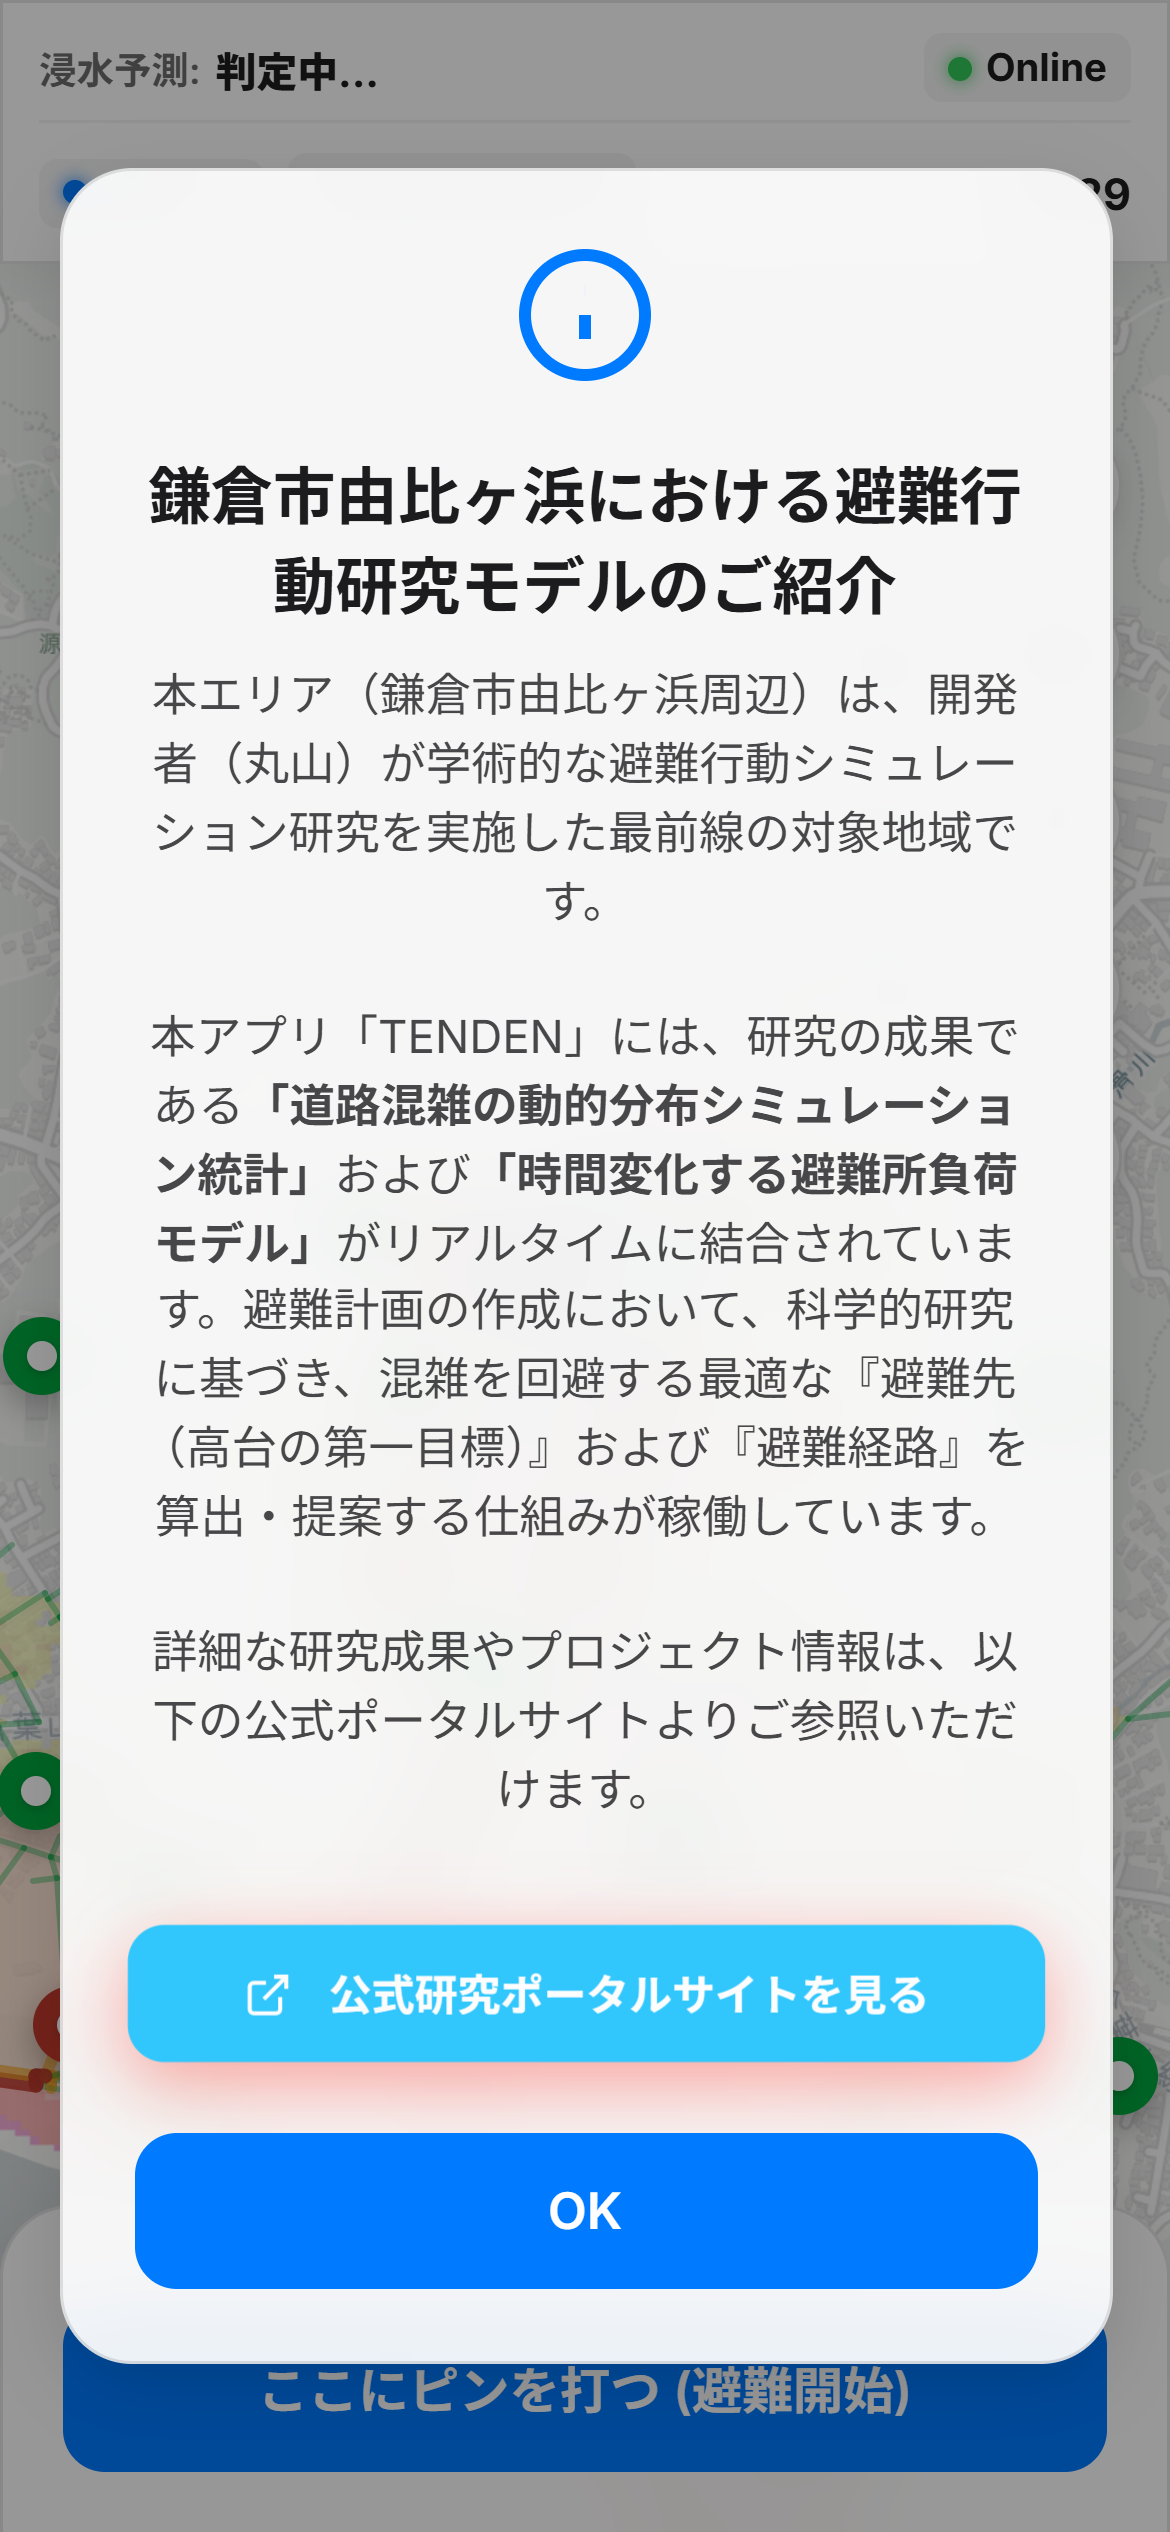
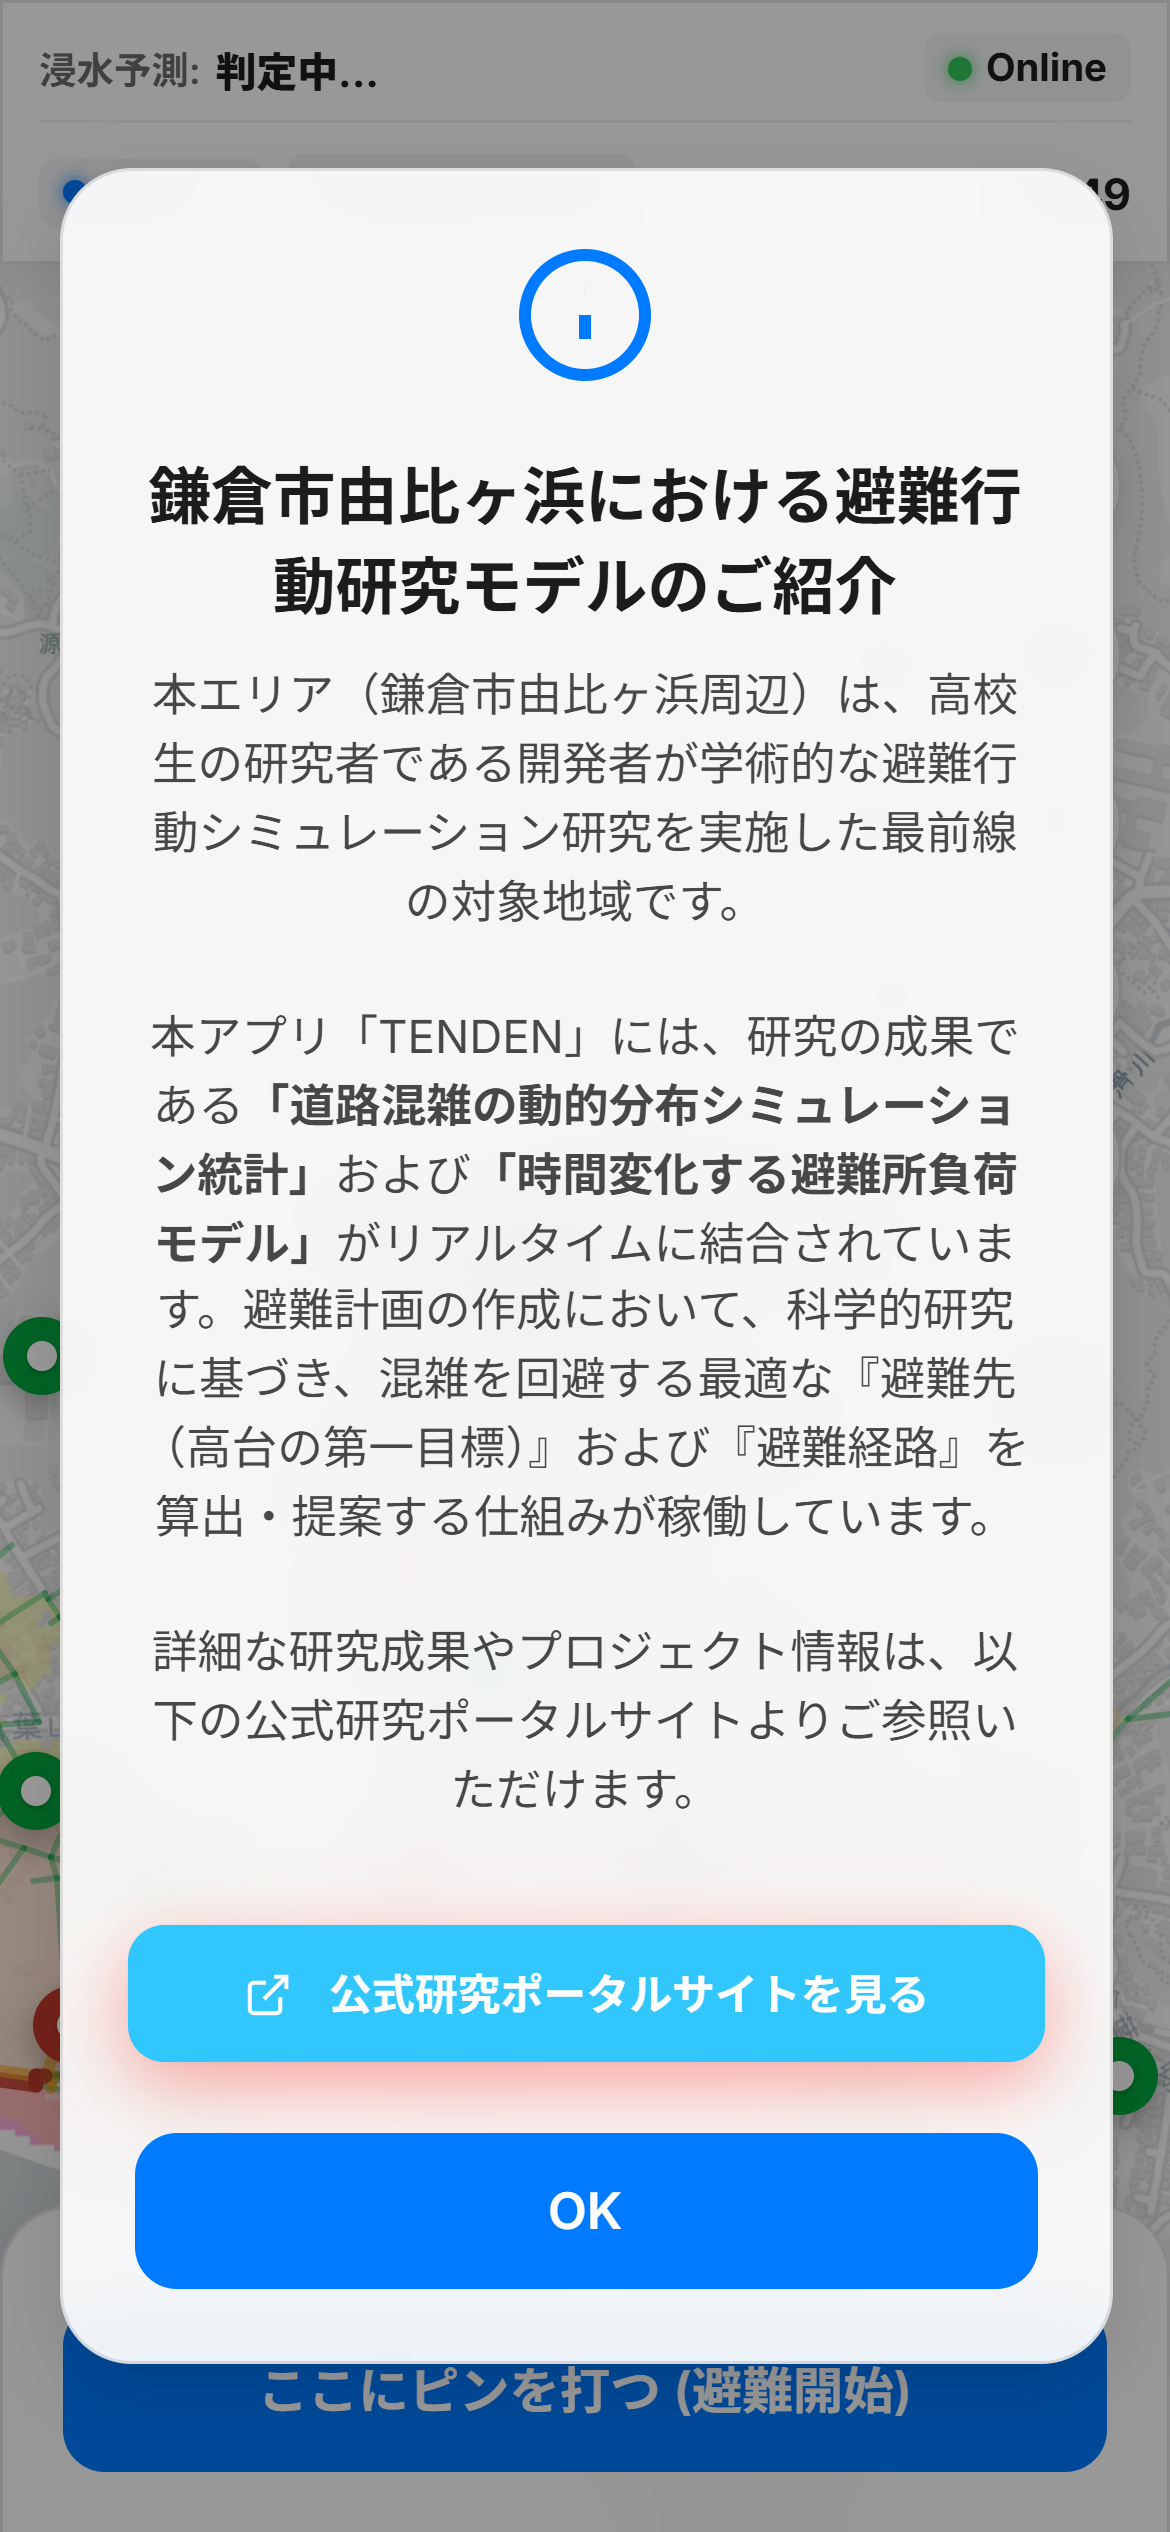
feat: Refine academic intro popup text and correct portal link; fix PC mock smartphone viewport styling for stacked HUD

diff --git a/tenden-app/app.js b/tenden-app/app.js
@@ -643,10 +643,10 @@ document.addEventListener('DOMContentLoaded', () => {
   
   // 1. Show academic introduction popup first!
   const introTitle = "鎌倉市由比ヶ浜における避難行動研究モデルのご紹介";
-  let portalUrl = "https://masatosprojects.github.io/tenden/";
-  let introDesc = `本エリア（鎌倉市由比ヶ浜周辺）は、開発者（丸山）が学術的な避難行動シミュレーション研究を実施した最前線の対象地域です。<br><br>` +
+  let portalUrl = "https://masatosprojects.github.io/kamakura-sim/";
+  let introDesc = `本エリア（鎌倉市由比ヶ浜周辺）は、高校生の研究者である開発者が学術的な避難行動シミュレーション研究を実施した最前線の対象地域です。<br><br>` +
                   `本アプリ「TENDEN」には、研究の成果である<b>「道路混雑の動的分布シミュレーション統計」</b>および<b>「時間変化する避難所負荷モデル」</b>がリアルタイムに結合されています。避難計画の作成において、科学的研究に基づき、混雑を回避する最適な『避難先（高台の第一目標）』および『避難経路』を算出・提案する仕組みが稼働しています。<br><br>` +
-                  `詳細な研究成果やプロジェクト情報は、以下の公式ポータルサイトよりご参照いただけます。<br><br>` +
+                  `詳細な研究成果やプロジェクト情報は、以下の公式研究ポータルサイトよりご参照いただけます。<br><br>` +
                   `<a href="${portalUrl}" target="_blank" class="action-btn primary-btn btn-flashy" style="display: inline-flex; align-items: center; justify-content: center; text-decoration: none; background: #00bbff; color: #fff; padding: 12px 20px; border-radius: 12px; font-weight: 700; font-size: 0.88rem; gap: 8px; box-shadow: 0 4px 16px rgba(0, 187, 255, 0.35); border: none; margin-top: 10px; width: 100%; box-sizing: border-box; text-align: center;">` +
                   `<svg viewBox="0 0 24 24" fill="none" stroke="currentColor" stroke-width="2" width="16" height="16" style="display:inline-block; vertical-align:middle; margin-right:4px;"><path d="M18 13v6a2 2 0 0 1-2 2H5a2 2 0 0 1-2-2V8a2 2 0 0 1 2-2h6"></path><polyline points="15 3 21 3 21 9"></polyline><line x1="10" y1="14" x2="21" y2="3"></line></svg>` +
                   `公式研究ポータルサイトを見る` +

diff --git a/tenden-app/style.css b/tenden-app/style.css
@@ -597,8 +597,8 @@ input:checked + .slider:before {
     box-shadow: var(--shadow-sm);
 }
 
-/* Top bar responsiveness optimization to prevent overlapping on tiny viewports */
-@media (max-width: 480px) {
+/* Top bar responsiveness optimization to prevent overlapping on tiny viewports & PC mock container views */
+@media (max-width: 480px), (min-width: 769px) {
     .top-status-bar {
         padding: max(env(safe-area-inset-top, 10px), 10px) 12px 10px 12px;
         display: flex;

diff --git a/tenden-app/sw.js b/tenden-app/sw.js
@@ -1,5 +1,5 @@
-const CACHE_NAME = 'tenden-v51';
-const DYNAMIC_CACHE = 'tenden-dynamic-v51';
+const CACHE_NAME = 'tenden-v52';
+const DYNAMIC_CACHE = 'tenden-dynamic-v52';
 
 
 
